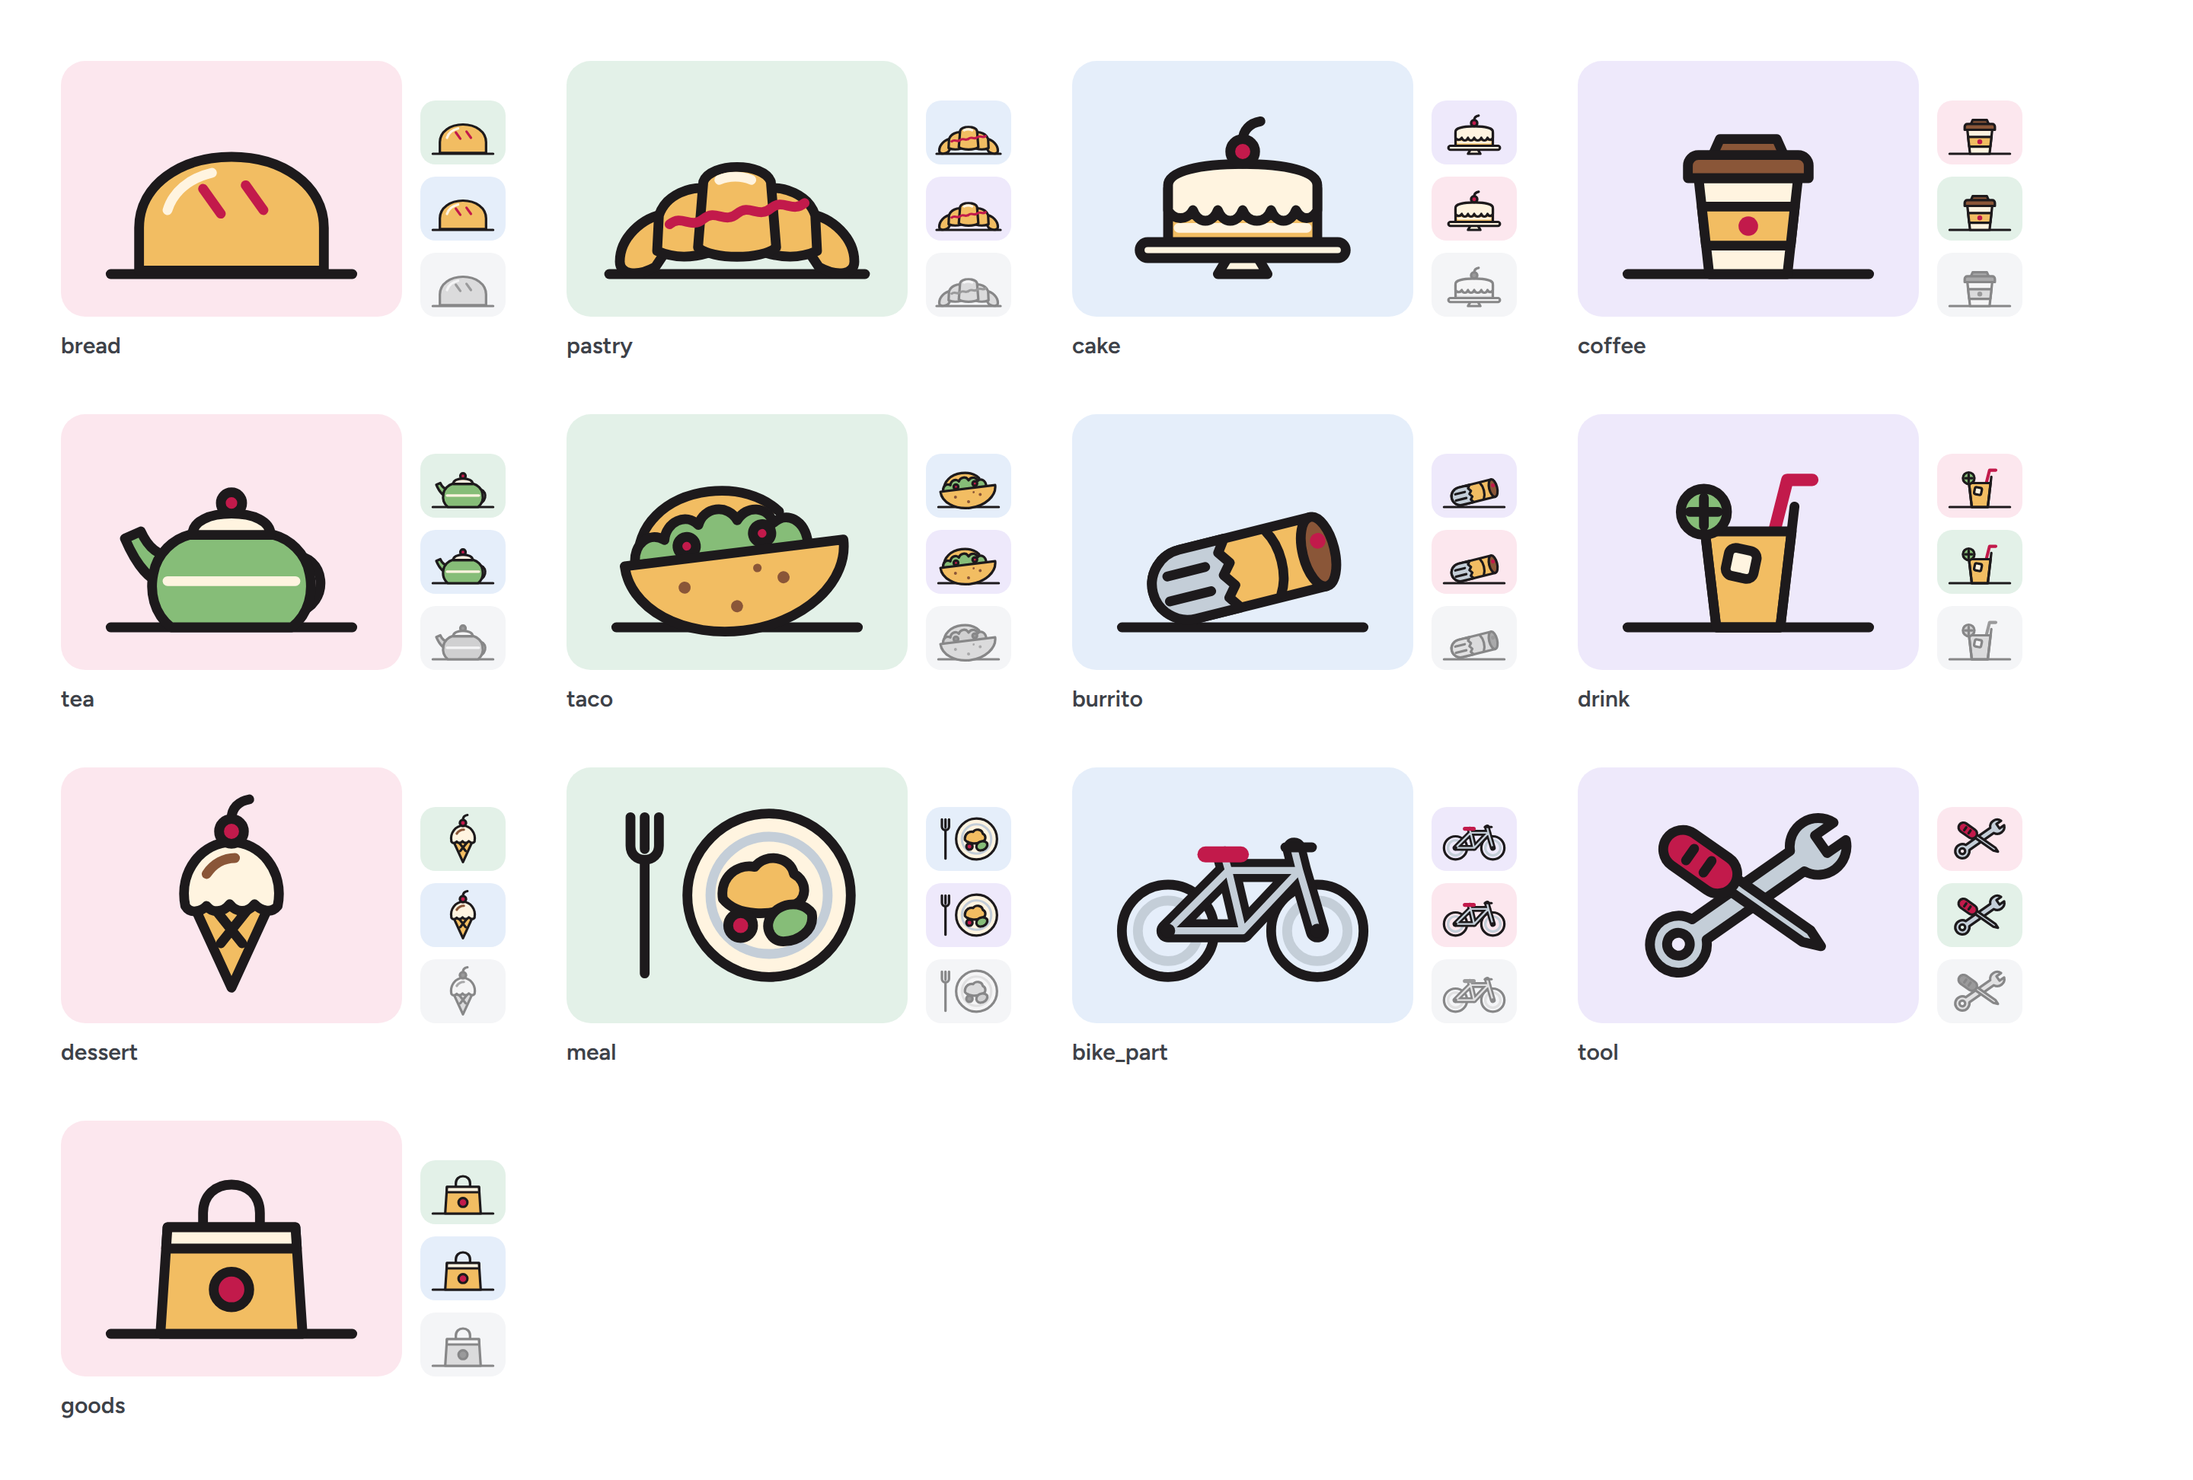
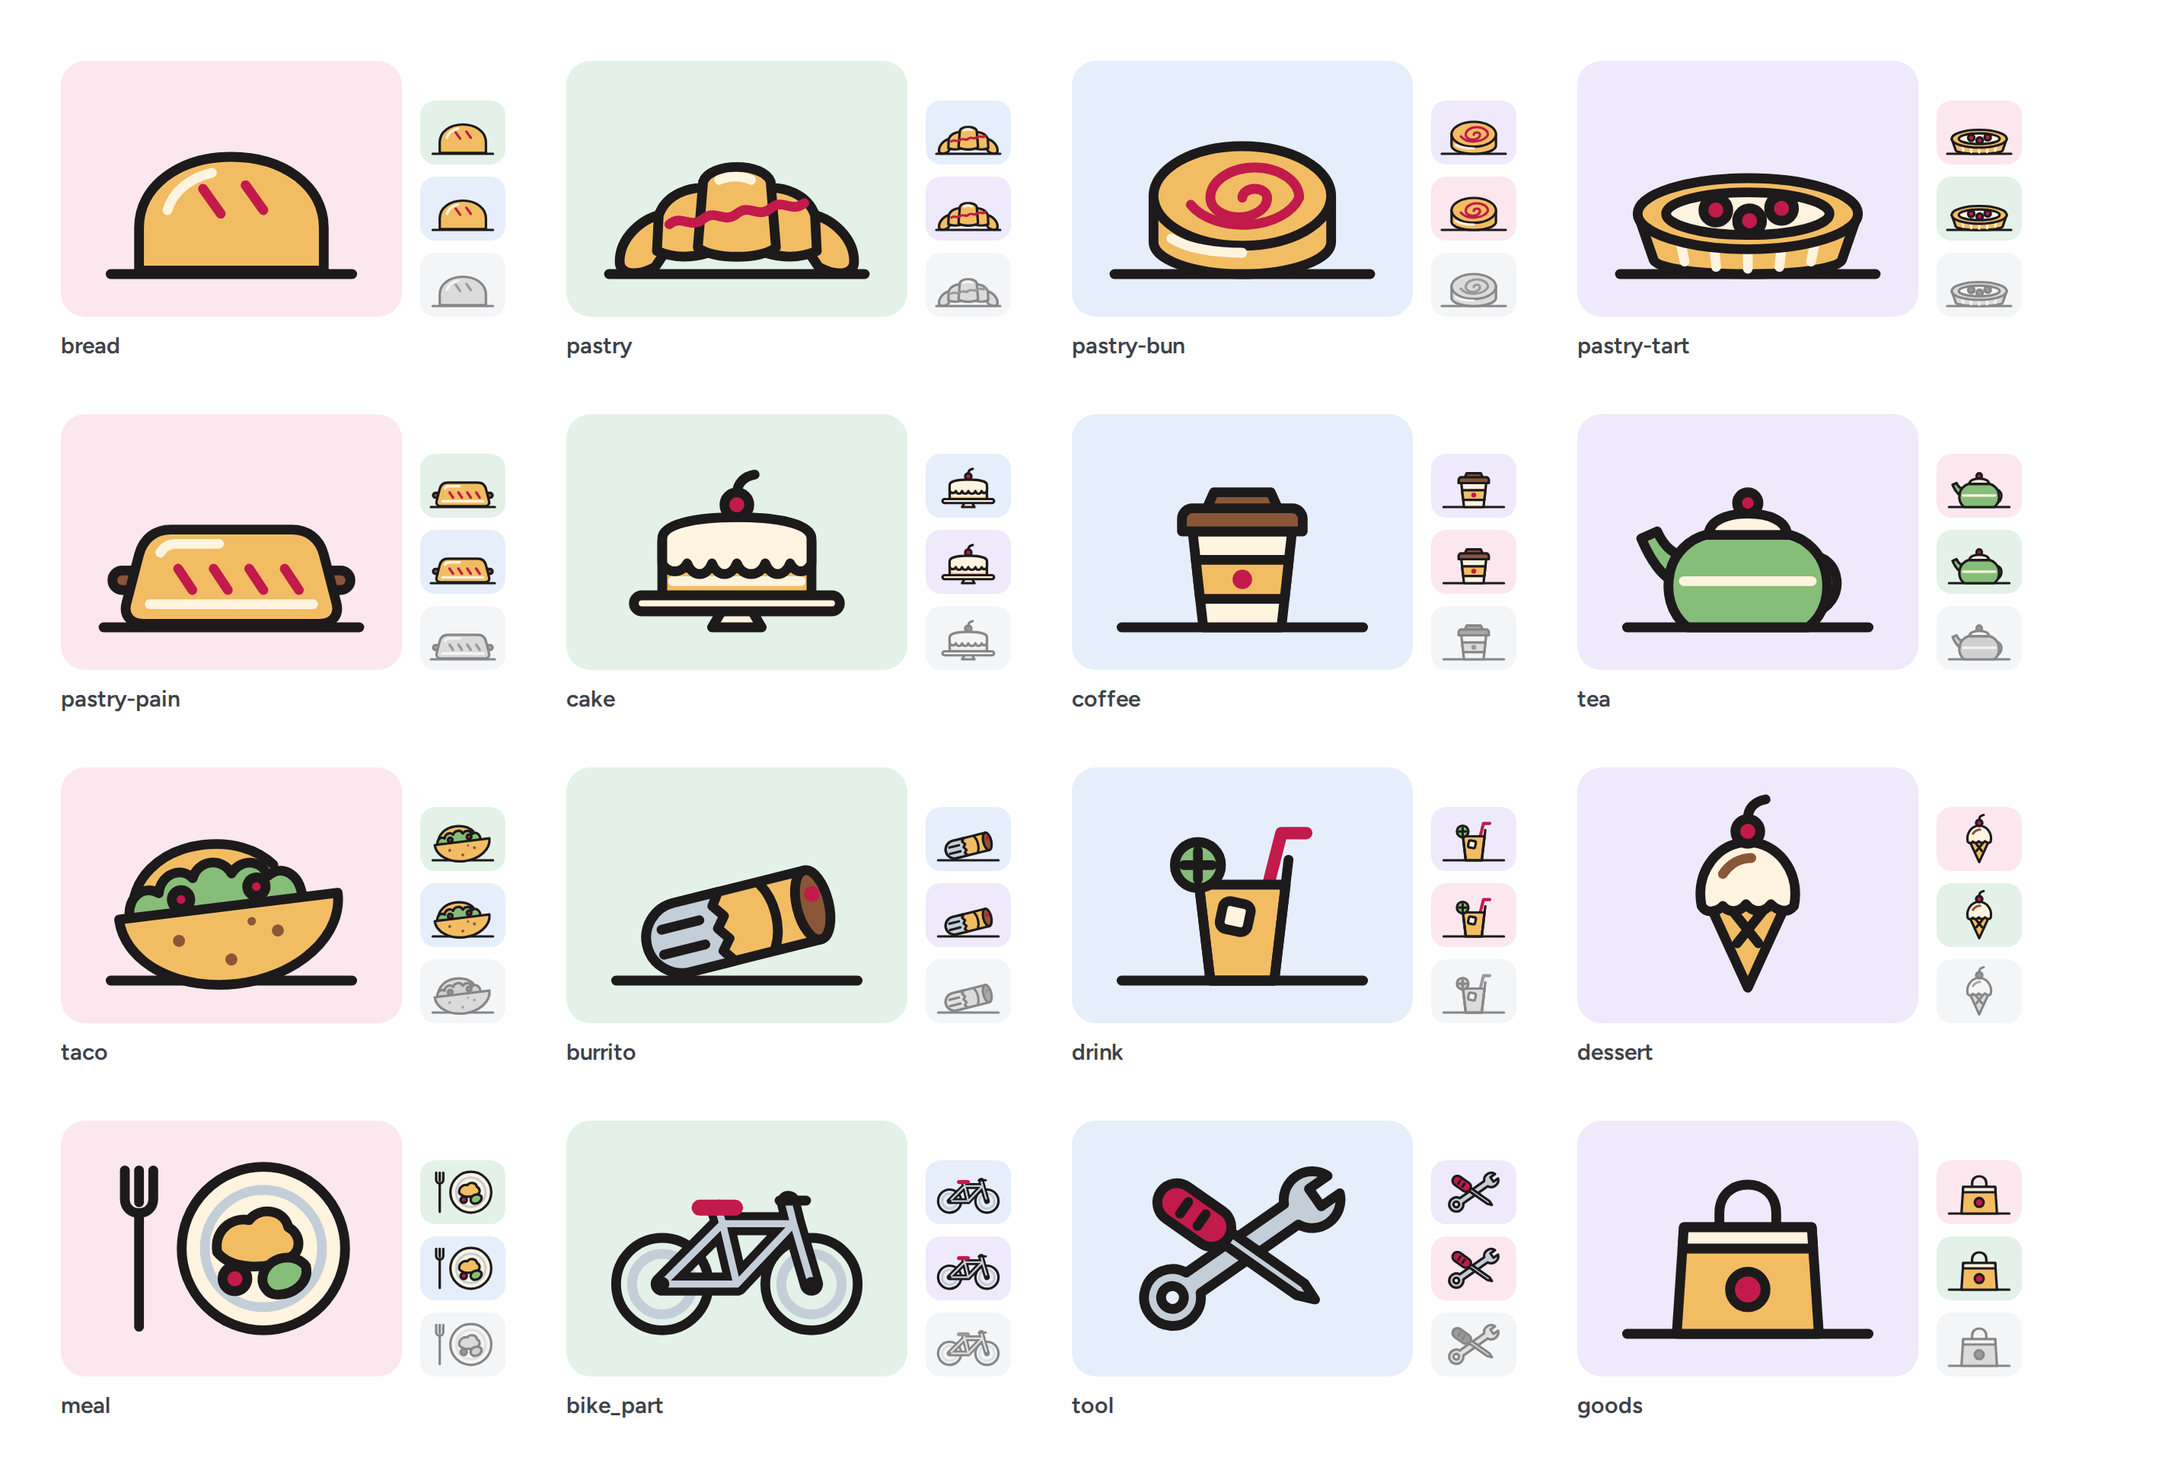
Pastry drawings vary by name: a swirl bun, a fruit tart and a pain au chocolat beside the croissant
drawingId(category, name) (src/lib/domain/drawing.ts, unit-tested first) picks a variant within a category
from the item's name without touching Claude's category enum: bun/roll/cinnamon/cardamom -> pastry-bun,
tart/pie/galette/quiche/crostata -> pastry-tart, pain au chocolat/chocolatine -> pastry-pain; croissants and
unknown pastries keep the croissant. Three new symbols in public/illustrations.svg in the same line-and-flat
style (2.75 ink, --ill-* fills, one pomegranate detail). ItemPhoto passes the name to ItemIllustration, so
the shop menu, setup review, photo picker, dashboard rows and order pages all get it. A test checks the
sheet has a symbol for every drawing id. Contact sheet re-rendered (16 drawings).

diff --git a/src/components/illustrations/ItemIllustration.tsx b/src/components/illustrations/ItemIllustration.tsx
@@ -1,5 +1,6 @@
 import { cx } from '@/components/ui/cx';
 import type { ItemCategory } from '@/lib/domain/category';
+import { drawingId } from '@/lib/domain/drawing';
 
 /** Section tints behind a drawing. A shop's sections cycle through them in menu order. */
 const TILES = ['bg-tile-rose', 'bg-tile-sage', 'bg-tile-sky', 'bg-tile-lilac'] as const;
@@ -7,7 +8,8 @@ const TILES = ['bg-tile-rose', 'bg-tile-sage', 'bg-tile-sky', 'bg-tile-lilac'] a
 export const tileTone = (sectionIndex: number) => TILES[((sectionIndex % TILES.length) + TILES.length) % TILES.length];
 
 /**
- * The 12 drawings live once in public/illustrations.svg (one <symbol> per category, filled from the --ill-* tokens);
+ * The drawings live once in public/illustrations.svg (one <symbol> per category, plus variants within a category that
+ * the item's name picks, `drawingId`; filled from the --ill-* tokens);
  * every tile points at one with <use>, so a menu of 30 photo-less items adds 30 short <use> tags to the page, not 30
  * copies of the paths, and the browser downloads and caches the sheet once.
  */
@@ -15,6 +17,8 @@ export const ILLUSTRATION_SHEET = '/illustrations.svg';
 
 export interface ItemIllustrationProps {
   category: ItemCategory;
+  /** The item's name, which picks a variant within its category (a bun, a tart, a pain au chocolat for `pastry`). */
+  name?: string | null;
   /** Section index for the tint; omit for no tile (the drawing alone, on whatever is behind it). */
   tone?: number;
   dim?: boolean;
@@ -22,11 +26,13 @@ export interface ItemIllustrationProps {
 }
 
 /** A Shelfie drawing of the item's kind (a loaf, a croissant, a taco …) on its section's tint. Always decorative. */
-export function ItemIllustration({ category, tone, dim, className }: ItemIllustrationProps) {
+export function ItemIllustration({ category, name, tone, dim, className }: ItemIllustrationProps) {
+  const id = drawingId(category, name);
   return (
     <span
       aria-hidden="true"
       data-illustration={category}
+      data-drawing={id}
       className={cx(
         'relative flex items-center justify-center overflow-hidden select-none',
         tone === undefined ? null : dim ? 'bg-surface-sunken' : tileTone(tone),
@@ -34,7 +40,7 @@ export function ItemIllustration({ category, tone, dim, className }: ItemIllustr
       )}
     >
       <svg viewBox="0 0 96 72" focusable="false" className={cx('block h-full max-h-full w-full', dim && 'opacity-50 grayscale')}>
-        <use href={`${ILLUSTRATION_SHEET}#${category}`} />
+        <use href={`${ILLUSTRATION_SHEET}#${id}`} />
       </svg>
     </span>
   );

diff --git a/src/lib/domain/drawing.ts b/src/lib/domain/drawing.ts
@@ -1,0 +1,60 @@
+import type { ItemCategory } from './category';
+
+/**
+ * Drawings within a category, chosen from the item's name: a bakery's buns, tarts and pains au chocolat should not all
+ * be the same croissant. The category itself stays Claude's closed choice (`CATEGORIES`); this only varies the picture.
+ */
+export const PASTRY_VARIANTS = ['croissant', 'bun', 'tart', 'pain'] as const;
+export type PastryVariant = (typeof PASTRY_VARIANTS)[number];
+
+/** Checked in order: a croissant stays a croissant whatever else its name says ("Cinnamon sugar croissant"). */
+const PASTRY_RULES: [PastryVariant, RegExp][] = [
+  ['croissant', /\bcroissants?\b/],
+  ['pain', /\b(pains? au chocolat|chocolatines?|eclairs?|strudels?)\b/],
+  ['tart', /\b(tarts?|tartlets?|tartes?|pies?|galettes?|quiches?|crostatas?|danish(es)?|frangipanes?)\b/],
+  ['bun', /\b(buns?|rolls?|cinnamon|cardamom|swirls?|knots?|brioches?|conchas?|kanelbullar|kardemummabullar|pain aux raisins|escargots?)\b/],
+];
+
+const plain = (text: string) =>
+  text
+    .normalize('NFKD')
+    .replace(/\p{M}/gu, '')
+    .toLowerCase()
+    .replace(/[^a-z0-9]+/g, ' ');
+
+/** Which pastry drawing an item's name asks for; the croissant when nothing matches. */
+export function pastryVariant(name: string): PastryVariant {
+  const words = ` ${plain(name)} `;
+  for (const [variant, rule] of PASTRY_RULES) if (rule.test(words)) return variant;
+  return 'croissant';
+}
+
+/** Every symbol id in public/illustrations.svg: one per category, plus the pastry variants. */
+export const DRAWING_IDS = [
+  'bread',
+  'pastry',
+  'pastry-bun',
+  'pastry-tart',
+  'pastry-pain',
+  'cake',
+  'coffee',
+  'tea',
+  'taco',
+  'burrito',
+  'drink',
+  'dessert',
+  'meal',
+  'bike_part',
+  'tool',
+  'goods',
+] as const;
+export type DrawingId = (typeof DRAWING_IDS)[number];
+
+/** The symbol in public/illustrations.svg for an item: its category's drawing, or a variant of it picked by its name. */
+export function drawingId(category: ItemCategory, name?: string | null): DrawingId {
+  if (category === 'pastry' && name) {
+    const variant = pastryVariant(name);
+    return variant === 'croissant' ? 'pastry' : `pastry-${variant}`;
+  }
+  return category;
+}

diff --git a/tests/domain/drawing.test.ts b/tests/domain/drawing.test.ts
@@ -1,0 +1,54 @@
+import { readFileSync } from 'node:fs';
+import { join } from 'node:path';
+import { describe, expect, it } from 'vitest';
+import { CATEGORIES } from '@/lib/domain/category';
+import { DRAWING_IDS, drawingId, pastryVariant } from '@/lib/domain/drawing';
+
+describe('pastryVariant', () => {
+  it.each([
+    ['Cardamom bun', 'bun'],
+    ['Cinnamon roll', 'bun'],
+    ['Morning buns', 'bun'],
+    ['Seasonal fruit galette', 'tart'],
+    ['Lemon tart', 'tart'],
+    ['Apple pie', 'tart'],
+    ['Leek quiche', 'tart'],
+    ['Apricot crostata', 'tart'],
+    ['Pain au chocolat', 'pain'],
+    ['Chocolatine', 'pain'],
+    ['Almond croissant', 'croissant'],
+    ['Cinnamon sugar croissant', 'croissant'],
+    ['Kouign amann', 'croissant'],
+    ['Viennoiserie of the day', 'croissant'],
+  ] as const)('%s -> %s', (name, variant) => {
+    expect(pastryVariant(name)).toBe(variant);
+  });
+});
+
+describe('drawingId', () => {
+  it('picks the pastry variant from the name', () => {
+    expect(drawingId('pastry', 'Cardamom bun')).toBe('pastry-bun');
+    expect(drawingId('pastry', 'Seasonal fruit galette')).toBe('pastry-tart');
+    expect(drawingId('pastry', 'Pain au chocolat')).toBe('pastry-pain');
+  });
+
+  it('keeps the croissant for croissants, unknown pastries and a missing name', () => {
+    expect(drawingId('pastry', 'Almond croissant')).toBe('pastry');
+    expect(drawingId('pastry', 'Something flaky')).toBe('pastry');
+    expect(drawingId('pastry')).toBe('pastry');
+  });
+
+  it('leaves every other category as its own drawing', () => {
+    expect(drawingId('bread', 'Cinnamon raisin loaf')).toBe('bread');
+    expect(drawingId('dessert', 'Apple pie')).toBe('dessert');
+  });
+});
+
+describe('public/illustrations.svg', () => {
+  it('has a symbol for every drawing id, so no tile is blank', () => {
+    const sheet = readFileSync(join(process.cwd(), 'public/illustrations.svg'), 'utf8');
+    const symbols = [...sheet.matchAll(/<symbol id="([^"]+)"/g)].map((m) => m[1]);
+    expect(symbols.sort()).toEqual([...DRAWING_IDS].sort());
+    for (const category of CATEGORIES) expect(DRAWING_IDS).toContain(category);
+  });
+});

diff --git a/scripts/illustration-sheet.ts b/scripts/illustration-sheet.ts
@@ -1,9 +1,9 @@
 // BASE_URL=http://localhost:3000 npx tsx scripts/illustration-sheet.ts [out.png]
-// Renders the contact sheet of the 12 item drawings (public/illustrations.svg) against a running app, so it uses the
+// Renders the contact sheet of the item drawings in public/illustrations.svg (one per category, plus the pastry variants) against a running app, so it uses the
 // real tokens from globals.css: each drawing at 56 px and 224 px wide on the four section tints, plus the dimmed
 // (sold out) state. Default output: docs/judge/evidence/illustrations.png.
 import { chromium } from '@playwright/test';
-import { CATEGORIES } from '@/lib/domain/category';
+import { DRAWING_IDS } from '@/lib/domain/drawing';
 
 const TINTS = ['--tile-rose-bg', '--tile-sage-bg', '--tile-sky-bg', '--tile-lilac-bg'];
 
@@ -16,7 +16,7 @@ async function main() {
   const tile = (category: string, width: number, tint: string, dim = false) =>
     `<span style="display:flex;align-items:center;justify-content:center;width:${width}px;height:${(width * 3) / 4}px;border-radius:${width < 100 ? 10 : 16}px;background:var(${dim ? '--grey-50' : tint});overflow:hidden">` +
     `<svg viewBox="0 0 96 72" style="width:100%;height:100%;${dim ? 'opacity:.5;filter:grayscale(1)' : ''}"><use href="/illustrations.svg#${category}"/></svg></span>`;
-  const cells = CATEGORIES.map(
+  const cells = DRAWING_IDS.map(
     (c, i) =>
       `<figure style="display:flex;flex-direction:column;gap:10px;margin:0;align-items:flex-start">` +
       `<div style="display:flex;gap:12px;align-items:flex-end">${tile(c, 224, TINTS[i % 4])}<div style="display:flex;flex-direction:column;gap:8px">${tile(c, 56, TINTS[(i + 1) % 4])}${tile(c, 56, TINTS[(i + 2) % 4])}${tile(c, 56, TINTS[i % 4], true)}</div></div>` +

diff --git a/e2e/shop.spec.ts b/e2e/shop.spec.ts
@@ -367,7 +367,7 @@ test.describe('console states', () => {
       // stored categories, the drawing of its most common guessed category, and its items' drawings on their tints.
       const avatar = page.locator('main [data-avatar], main [data-illustration]').first();
       await expect(avatar).toBeVisible();
-      if (slug === edgeShop.slug) await expect(page.locator('main [data-illustration] use').first()).toHaveAttribute('href', /^\/illustrations\.svg#[a-z_]+$/);
+      if (slug === edgeShop.slug) await expect(page.locator('main [data-illustration] use').first()).toHaveAttribute('href', /^\/illustrations\.svg#[a-z_-]+$/);
       const box = (await avatar.boundingBox())!;
       const top = await page.evaluate(({ x, y }) => {
         const hit = document.elementFromPoint(x, y);

diff --git a/src/components/shop/ItemPhoto.tsx b/src/components/shop/ItemPhoto.tsx
@@ -42,10 +42,10 @@ export function ItemPhoto({ name, photoUrl, category, tone = 0, dim, className, 
     );
   }
   // The drawing is generic, so it is never the item's picture for a screen reader: the item's name says it.
-  if (decorative) return <ItemIllustration category={category} tone={tone} dim={dim} className={className} />;
+  if (decorative) return <ItemIllustration category={category} name={name} tone={tone} dim={dim} className={className} />;
   return (
     <span role="img" aria-label={name} className={cx('block overflow-hidden', className)}>
-      <ItemIllustration category={category} tone={tone} dim={dim} className="size-full" />
+      <ItemIllustration category={category} name={name} tone={tone} dim={dim} className="size-full" />
     </span>
   );
 }

diff --git a/tests/components/photo-picker.test.ts b/tests/components/photo-picker.test.ts
@@ -32,7 +32,7 @@ describe('ItemPhotoPicker', () => {
     const html = renderToStaticMarkup(createElement(ItemPhotoPicker, { ...props, photoUrl: null }));
     expect(html).toContain('aria-label="Add a photo of Cardamom bun"');
     expect(html).toContain('type="file"');
-    expect(html).toContain('href="/illustrations.svg#pastry"');
+    expect(html).toContain('href="/illustrations.svg#pastry-bun"');
     expect(html).not.toContain('>Cb<');
   });
 

diff --git a/docs/DESIGN.md b/docs/DESIGN.md
@@ -151,7 +151,7 @@ Item photos are 4:3 crops with the `photo` radius. Thumbnails use `thumb` (10 px
 
 ### The illustrations (`illustrations/ItemIllustration.tsx`, `public/illustrations.svg`)
 
-- **Thirteen drawings**, one per item category (`src/lib/domain/category.ts`): bread (a scored loaf), pastry (a segmented croissant with curved horns), cake (a frosted cake on a stand), coffee (a takeaway cup), tea (a teapot), taco, burrito (half in foil, straight crimp lines), drink (a glass with a straw and lime), dessert (a cone), meal (a plate with a fork: any other dish), bike_part (a bicycle), tool (a wrench crossed with a screwdriver) and goods (a shopping bag). Contact sheet: `docs/judge/evidence/illustrations.png`.
+- **Thirteen drawings**, one per item category (`src/lib/domain/category.ts`): bread (a scored loaf), pastry (a segmented croissant with curved horns), cake (a frosted cake on a stand), coffee (a takeaway cup), tea (a teapot), taco, burrito (half in foil, straight crimp lines), drink (a glass with a straw and lime), dessert (a cone), meal (a plate with a fork: any other dish), bike_part (a bicycle), tool (a wrench crossed with a screwdriver) and goods (a shopping bag). **Variants within a category**, picked from the item's name by `drawingId` (`src/lib/domain/drawing.ts`; the category stays Claude's closed choice): a pastry is a cinnamon swirl bun (bun, roll, cinnamon, cardamom), a fruit tart (tart, pie, galette, quiche, crostata) or a pain au chocolat (chocolate batons at its ends), else the croissant. Contact sheet: `docs/judge/evidence/illustrations.png`.
 - **Style:** rounded geometric shapes, one ink outline (2.75 units on a 96 x 72 viewBox, round caps and joins), two or three flat fills from the illustration palette (`--ill-*`), and exactly one pomegranate detail (the loaf's scores like the logo's, the croissant's drizzle, the cherry, the cup's sticker, the teapot's knob, the tomatoes, the salsa, the straw, the saddle, the screwdriver's handle, the bag's sticker, the meal's tomato). Most sit on a short ink shelf line. They read at 44 px and at 224 px.
 - **Category:** Claude picks one per item when it reads the menu (`category` in the extraction schema). Rows without one (older shops, a hand-added item) fall back to `guessCategory`, keyword rules on the name, then the description, then the section; a food shop never gets `tool` or `bike_part` from a keyword; an unmatched item is `meal` in a food shop, `tool` in a services shop, else `goods`.
 - **Cost:** each drawing is a `<symbol>` in one static sheet; a tile is `<svg><use href="/illustrations.svg#bread"/></svg>`, so the paths are downloaded once and cached and never repeated in a page's HTML. The comment in that file must never contain a double hyphen (invalid XML blanks every drawing).
